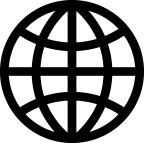
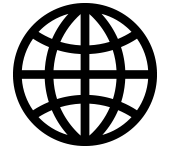
Add predefined ids for EnterKeyAction
A predefined action id replaces the label in the enter key with an icon.

Balanced all icons to use the same aspect ratio. Removed all custom
margins used for icon positioning and sizing.

Task-number: QTRD-2900

diff --git a/qtvirtualkeyboard/src/virtualkeyboard/content/styles/default/style.qml b/qtvirtualkeyboard/src/virtualkeyboard/content/styles/default/style.qml
@@ -17,12 +17,14 @@
 ****************************************************************************/
 
 import QtQuick 2.0
+import QtQuick.Enterprise.VirtualKeyboard 1.0
 import QtQuick.Enterprise.VirtualKeyboard.Styles 1.0
 
 KeyboardStyle {
     readonly property string fontFamily: dejaVuSans.name
     readonly property real keyBackgroundMargin: Math.round(13 * scaleHint)
     readonly property real keyContentMargin: Math.round(45 * scaleHint)
+    readonly property real keyIconMargin: Math.round(35 * scaleHint)
 
     property var dejaVuSans: FontLoader {
         source: "qrc:/fonts/DejaVuSans.ttf"
@@ -102,8 +104,8 @@ KeyboardStyle {
                 source: "qrc:/images/backspace.png"
                 color: "#868482"
                 anchors.fill: parent
-                anchors.topMargin: keyContentMargin
-                anchors.bottomMargin: keyContentMargin
+                anchors.topMargin: keyIconMargin
+                anchors.bottomMargin: keyIconMargin
             }
         }
         states: [
@@ -146,8 +148,8 @@ KeyboardStyle {
                 source: "qrc:/images/globe.png"
                 color: "#868482"
                 anchors.fill: parent
-                anchors.topMargin: keyContentMargin
-                anchors.bottomMargin: keyContentMargin
+                anchors.topMargin: keyIconMargin
+                anchors.bottomMargin: keyIconMargin
             }
         }
         states: [
@@ -187,17 +189,29 @@ KeyboardStyle {
             anchors.margins: keyBackgroundMargin
             KeyIcon {
                 id: enterKeyIcon
-                visible: control.displayText.length === 0
-                source: "qrc:/images/enter.png"
+                visible: enterKeyText.text.length === 0
+                source: {
+                    switch (control.actionId) {
+                    case EnterKeyAction.Go:
+                    case EnterKeyAction.Send:
+                    case EnterKeyAction.Next:
+                    case EnterKeyAction.Done:
+                        return "qrc:/images/check.png"
+                    case EnterKeyAction.Search:
+                        return "qrc:/images/search.png"
+                    default:
+                        return "qrc:/images/enter.png"
+                    }
+                }
                 color: "#868482"
                 anchors.fill: parent
-                anchors.margins: keyContentMargin
-                anchors.leftMargin: enterKeyBackground.width > enterKeyBackground.height * 1.5 ? Math.round(150 * scaleHint) : keyContentMargin
+                anchors.topMargin: keyIconMargin
+                anchors.bottomMargin: keyIconMargin
             }
             Text {
                 id: enterKeyText
-                visible: control.displayText.length !== 0
-                text: control.displayText
+                visible: text.length !== 0
+                text: control.actionId !== EnterKeyAction.None ? "" : control.displayText
                 clip: true
                 fontSizeMode: Text.HorizontalFit
                 horizontalAlignment: Text.AlignHCenter
@@ -261,8 +275,8 @@ KeyboardStyle {
                 source: "qrc:/images/hidekeyboard.png"
                 color: "#868482"
                 anchors.fill: parent
-                anchors.topMargin: keyContentMargin
-                anchors.bottomMargin: keyContentMargin
+                anchors.topMargin: keyIconMargin
+                anchors.bottomMargin: keyIconMargin
             }
         }
         states: [
@@ -305,8 +319,8 @@ KeyboardStyle {
                 source: "qrc:/images/shift.png"
                 color: "#868482"
                 anchors.fill: parent
-                anchors.topMargin: keyContentMargin
-                anchors.bottomMargin: keyContentMargin
+                anchors.topMargin: keyIconMargin
+                anchors.bottomMargin: keyIconMargin
             }
             states: [
                 State {

diff --git a/qtvirtualkeyboard/src/virtualkeyboard/content/styles/retro/style.qml b/qtvirtualkeyboard/src/virtualkeyboard/content/styles/retro/style.qml
@@ -17,12 +17,14 @@
 ****************************************************************************/
 
 import QtQuick 2.0
+import QtQuick.Enterprise.VirtualKeyboard 1.0
 import QtQuick.Enterprise.VirtualKeyboard.Styles 1.0
 
 KeyboardStyle {
     readonly property string fontFamily: courierPrimeRegular.name
     readonly property real keyBackgroundMargin: Math.round(9 * scaleHint)
     readonly property real keyContentMargin: Math.round(50 * scaleHint)
+    readonly property real keyIconMargin: Math.round(40 * scaleHint)
 
     property var courierPrimeRegular: FontLoader {
         source: "qrc:/fonts/Courier Prime.ttf"
@@ -145,10 +147,8 @@ KeyboardStyle {
             source: "qrc:/images/backspace.png"
             color: "#c5a96f"
             anchors.fill: parent
-            anchors.topMargin: keyContentMargin
-            anchors.bottomMargin: keyContentMargin
-            anchors.leftMargin: Math.round(29 * scaleHint)
-            anchors.rightMargin: Math.round(29 * scaleHint)
+            anchors.topMargin: keyIconMargin
+            anchors.bottomMargin: keyIconMargin
         }
         states: [
             State {
@@ -191,8 +191,8 @@ KeyboardStyle {
             source: "qrc:/images/globe.png"
             color: "#110b05"
             anchors.fill: parent
-            anchors.topMargin: keyContentMargin
-            anchors.bottomMargin: keyContentMargin
+            anchors.topMargin: keyIconMargin
+            anchors.bottomMargin: keyIconMargin
         }
         states: [
             State {
@@ -238,17 +238,29 @@ KeyboardStyle {
         }
         KeyIcon {
             id: enterKeyIcon
-            visible: control.displayText.length === 0
-            source: "qrc:/images/enter.png"
+            visible: enterKeyText.text.length === 0
+            source: {
+                switch (control.actionId) {
+                case EnterKeyAction.Go:
+                case EnterKeyAction.Send:
+                case EnterKeyAction.Next:
+                case EnterKeyAction.Done:
+                    return "qrc:/images/check.png"
+                case EnterKeyAction.Search:
+                    return "qrc:/images/search.png"
+                default:
+                    return "qrc:/images/enter.png"
+                }
+            }
             color: "#c5a96f"
             anchors.fill: parent
-            anchors.margins: keyContentMargin
-            anchors.leftMargin: enterKeyBackground.width > enterKeyBackground.height * 1.5 ? Math.round(142 * scaleHint) : anchors.margins
+            anchors.topMargin: keyIconMargin
+            anchors.bottomMargin: keyIconMargin
         }
         Text {
             id: enterKeyText
-            visible: control.displayText.length !== 0
-            text: control.displayText
+            visible: text.length !== 0
+            text: control.actionId !== EnterKeyAction.None ? "" : control.displayText
             clip: true
             fontSizeMode: Text.HorizontalFit
             horizontalAlignment: Text.AlignHCenter
@@ -321,8 +333,8 @@ KeyboardStyle {
             source: "qrc:/images/hidekeyboard.png"
             color: "#c5a96f"
             anchors.fill: parent
-            anchors.topMargin: keyContentMargin
-            anchors.bottomMargin: keyContentMargin
+            anchors.topMargin: keyIconMargin
+            anchors.bottomMargin: keyIconMargin
         }
         states: [
             State {
@@ -397,8 +409,8 @@ KeyboardStyle {
             source: "qrc:/images/shift.png"
             color: "#c5a96f"
             anchors.fill: parent
-            anchors.topMargin: keyContentMargin
-            anchors.bottomMargin: keyContentMargin
+            anchors.topMargin: keyIconMargin
+            anchors.bottomMargin: keyIconMargin
         }
         states: [
             State {

diff --git a/qtvirtualkeyboard/examples/quick/enterprise/virtualkeyboard/virtualkeyboard/VirtualKeyboard.qml b/qtvirtualkeyboard/examples/quick/enterprise/virtualkeyboard/virtualkeyboard/VirtualKeyboard.qml
@@ -17,6 +17,7 @@
 ****************************************************************************/
 
 import QtQuick 2.0
+import QtQuick.Enterprise.VirtualKeyboard 1.0
 import "content"
 
 Rectangle {
@@ -59,7 +60,7 @@ Rectangle {
                 TextField {
                     width: parent.width
                     previewText: "One line field"
-                    enterKeyText: "Next"
+                    enterKeyAction: EnterKeyAction.Next
                     onEnterKeyClicked: passwordField.focus = true
                 }
                 TextField {
@@ -69,7 +70,7 @@ Rectangle {
                     echoMode: TextInput.Password
                     previewText: "Password field"
                     inputMethodHints: Qt.ImhNoAutoUppercase | Qt.ImhPreferLowercase | Qt.ImhSensitiveData | Qt.ImhNoPredictiveText
-                    enterKeyText: "Next"
+                    enterKeyAction: EnterKeyAction.Next
                     onEnterKeyClicked: numberField.focus = true
                 }
                 TextField {
@@ -79,7 +80,7 @@ Rectangle {
                     width: parent.width
                     previewText: "Phone number field"
                     inputMethodHints: Qt.ImhDialableCharactersOnly
-                    enterKeyText: "Next"
+                    enterKeyAction: EnterKeyAction.Next
                     onEnterKeyClicked: textArea.focus = true
                 }
                 TextArea {

diff --git a/qtvirtualkeyboard/examples/quick/enterprise/virtualkeyboard/virtualkeyboard/content/TextBase.qml b/qtvirtualkeyboard/examples/quick/enterprise/virtualkeyboard/virtualkeyboard/content/TextBase.qml
@@ -17,6 +17,7 @@
 ****************************************************************************/
 
 import QtQuick 2.0
+import QtQuick.Enterprise.VirtualKeyboard 1.0
 
 FocusScope {
     id: textBase
@@ -25,8 +26,9 @@ FocusScope {
     property bool previewTextActive: !editor.activeFocus && text.length === 0
     property int fontPixelSize: 32
     property string previewText
+    property int enterKeyAction: EnterKeyAction.None
     property string enterKeyText
-    property bool enterKeyEnabled: enterKeyText.length === 0 || editor.text.length > 0 || editor.inputMethodComposing
+    property bool enterKeyEnabled: enterKeyAction === EnterKeyAction.None || editor.text.length > 0 || editor.inputMethodComposing
     property alias mouseParent: mouseArea.parent
 
     implicitHeight: editor.height + 12

diff --git a/qtvirtualkeyboard/src/virtualkeyboard/content/components/EnterKey.qml b/qtvirtualkeyboard/src/virtualkeyboard/content/components/EnterKey.qml
@@ -31,6 +31,11 @@ import QtQuick.Enterprise.VirtualKeyboard 1.0
 */
 
 BaseKey {
+    /*! This property holds the action id for the enter key.
+
+    */
+    readonly property int actionId: InputContext.hasEnterKeyAction(InputContext.inputItem) ? InputContext.inputItem.EnterKeyAction.actionId : EnterKeyAction.None
+
     text: "\n"
     displayText: InputContext.hasEnterKeyAction(InputContext.inputItem) ? InputContext.inputItem.EnterKeyAction.label : ""
     key: Qt.Key_Return

diff --git a/qtvirtualkeyboard/examples/quick/enterprise/virtualkeyboard/virtualkeyboard/content/TextField.qml b/qtvirtualkeyboard/examples/quick/enterprise/virtualkeyboard/virtualkeyboard/content/TextField.qml
@@ -49,6 +49,7 @@ TextBase {
         TextInput {
             id: textInput
 
+            EnterKeyAction.actionId: textField.enterKeyAction
             EnterKeyAction.label: textField.enterKeyText
             EnterKeyAction.enabled: textField.enterKeyEnabled
 

diff --git a/qtvirtualkeyboard/examples/quick/enterprise/virtualkeyboard/virtualkeyboard/content/TextArea.qml b/qtvirtualkeyboard/examples/quick/enterprise/virtualkeyboard/virtualkeyboard/content/TextArea.qml
@@ -42,6 +42,7 @@ TextBase {
     TextEdit {
         id: textEdit
 
+        EnterKeyAction.actionId: textArea.enterKeyAction
         EnterKeyAction.label: textArea.enterKeyText
         EnterKeyAction.enabled: textArea.enterKeyEnabled
 

diff --git a/qtvirtualkeyboard/src/virtualkeyboard/enterkeyaction.cpp b/qtvirtualkeyboard/src/virtualkeyboard/enterkeyaction.cpp
@@ -47,12 +47,37 @@
 */
 
 /*!
+    \class EnterKeyAction
+    \internal
+*/
+
+/*!
     \internal
 */
 EnterKeyActionAttachedType *EnterKeyAction::qmlAttachedProperties(QObject *object)
 {
     return new EnterKeyActionAttachedType(object);
 }
+
+/*!
+    \qmlattachedproperty int EnterKeyAction::actionId
+
+    Sets the action id for the enter key in virtual keyboard.
+    When the action id is set, it takes preference over the label
+    and sets the icon for the enter key.
+
+    \list
+        \li \c EnterKeyAction.None No action defined.
+        \li \c EnterKeyAction.Go Action performs go operation.
+               For example taking user to the entered url.
+        \li \c EnterKeyAction.Search Action performs search operation.
+        \li \c EnterKeyAction.Send Action sends the entered text.
+        \li \c EnterKeyAction.Next Action moves the input focus to
+               the next field accepting text input.
+        \li \c EnterKeyAction.Done Same as \c EnterKeyAction.Next,
+               except all the text input is done.
+    \endlist
+*/
 
 /*!
     \qmlattachedproperty string EnterKeyAction::label

diff --git a/qtvirtualkeyboard/src/virtualkeyboard/enterkeyactionattachedtype.h b/qtvirtualkeyboard/src/virtualkeyboard/enterkeyactionattachedtype.h
@@ -20,26 +20,32 @@
 #define ENTERKEYACTIONATTACHEDTYPE_H
 
 #include <QObject>
+#include "enterkeyaction.h"
 
 class EnterKeyActionAttachedType : public QObject
 {
     Q_OBJECT
+    Q_PROPERTY(EnterKeyAction::Id actionId READ actionId WRITE setActionId NOTIFY actionIdChanged)
     Q_PROPERTY(QString label READ label WRITE setLabel NOTIFY labelChanged)
     Q_PROPERTY(bool enabled READ enabled WRITE setEnabled NOTIFY enabledChanged)
 
 public:
     explicit EnterKeyActionAttachedType(QObject *parent);
 
+    EnterKeyAction::Id actionId() const;
+    void setActionId(EnterKeyAction::Id actionId);
     QString label() const;
     void setLabel(const QString& label);
     bool enabled() const;
     void setEnabled(bool enabled);
 
 signals:
+    void actionIdChanged();
     void labelChanged();
     void enabledChanged();
 
 private:
+    EnterKeyAction::Id m_actionId;
     QString m_label;
     bool m_enabled;
 };

diff --git a/qtvirtualkeyboard/src/virtualkeyboard/enterkeyactionattachedtype.cpp b/qtvirtualkeyboard/src/virtualkeyboard/enterkeyactionattachedtype.cpp
@@ -20,9 +20,23 @@
 
 EnterKeyActionAttachedType::EnterKeyActionAttachedType(QObject *parent) :
     QObject(parent),
+    m_actionId(EnterKeyAction::None),
     m_label(),
     m_enabled(true)
 {
+}
+
+EnterKeyAction::Id EnterKeyActionAttachedType::actionId() const
+{
+    return m_actionId;
+}
+
+void EnterKeyActionAttachedType::setActionId(EnterKeyAction::Id actionId)
+{
+    if (m_actionId != actionId) {
+        m_actionId = actionId;
+        emit actionIdChanged();
+    }
 }
 
 QString EnterKeyActionAttachedType::label() const

diff --git a/qtvirtualkeyboard/src/virtualkeyboard/enterkeyaction.h b/qtvirtualkeyboard/src/virtualkeyboard/enterkeyaction.h
@@ -26,10 +26,23 @@ class EnterKeyActionAttachedType;
 class EnterKeyAction : public QObject
 {
     Q_OBJECT
+    Q_ENUMS(Id)
+
+public:
+    enum Id {
+        None,
+        Go,
+        Search,
+        Send,
+        Next,
+        Done
+    };
+
 public:
     static EnterKeyActionAttachedType *qmlAttachedProperties(QObject *object);
 };
 
+Q_DECLARE_METATYPE(EnterKeyAction::Id)
 QML_DECLARE_TYPEINFO(EnterKeyAction, QML_HAS_ATTACHED_PROPERTIES)
 
 #endif
